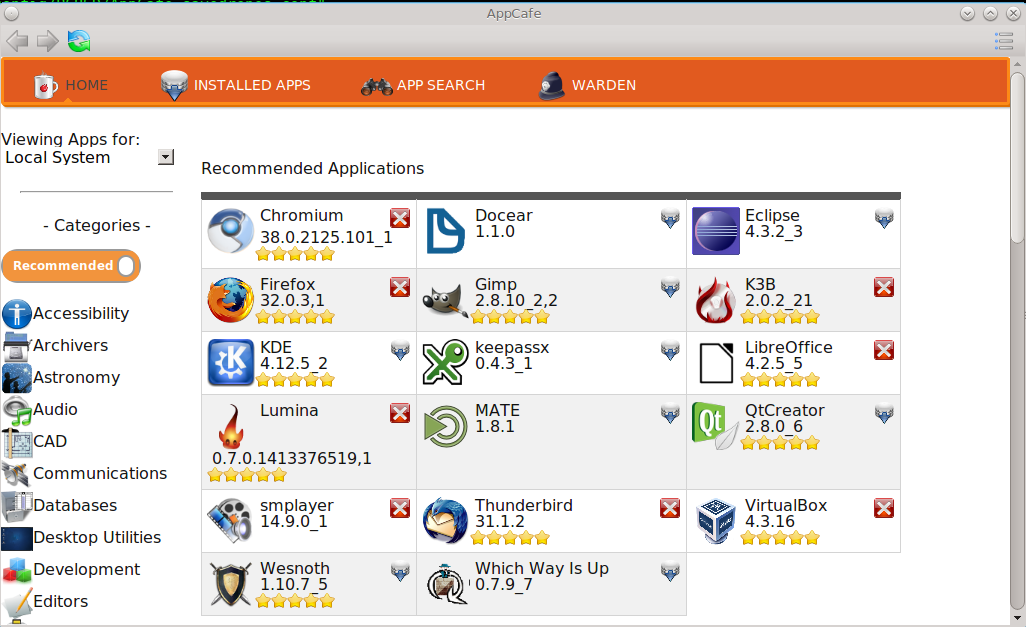
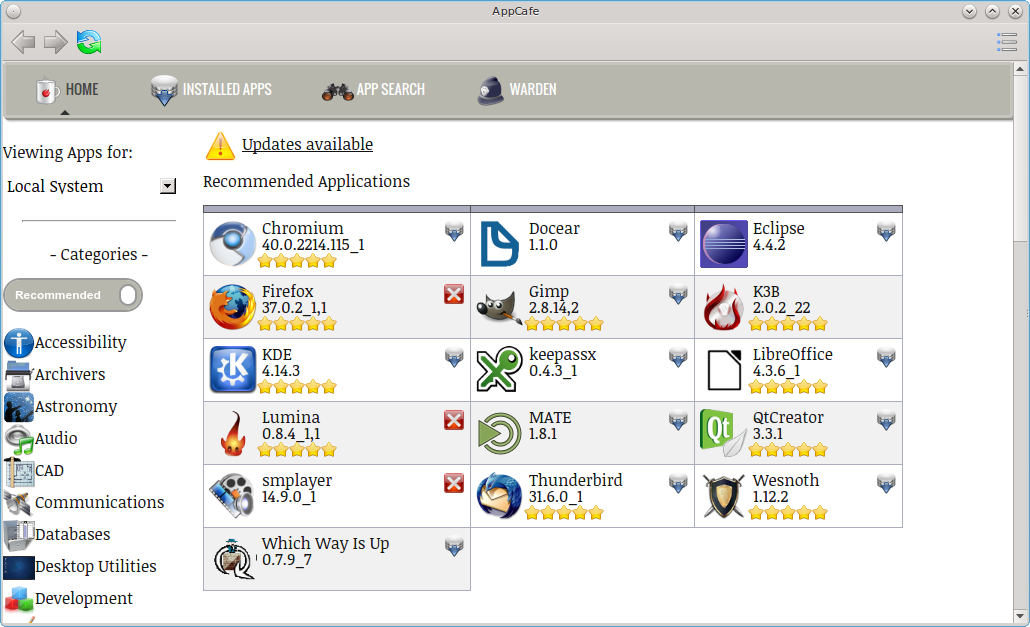
Doc new zimport functionality and start updates to AppCafe chapter.

diff --git a/src-qt5/docs/update.rst b/src-qt5/docs/update.rst
@@ -39,14 +39,14 @@ AppCafe® includes the ability to remotely manage software and jails from anothe
 of a TrueOS® server, the installer provides the ability to configure the user, password, and port number for accessing AppCafe® from any device with
 a web browser. On a desktop installation, AppCafe® can be run as a local application and optionally configured for remote access. To launch the
 AppCafe® application on a PC-BSD® desktop, double-click its icon on the Desktop, go to :menuselection:`Control Panel --> AppCafe®`, or type 
-:command:`pc-su appcafe` from a command prompt. When prompted, input your password. Figure 7.1a shows the initial AppCafe® screen when it is started from
+:command:`appcafe` from a command prompt. When prompted, input your password. Figure 7.1a shows the initial AppCafe® screen when it is started from
 a desktop.
 
 **Figure 7.1a: Running AppCafe® from a Desktop**
 
 .. image:: images/remote1.png
 
-The top bar contains navigational arrows and a refresh icon. Click the icon at the far right of this bar to either configure or close AppCafe®. Figure
+The top bar contains navigational arrows and a refresh icon. Click the icon at the far right of this bar to configure or close AppCafe® or to search for text. Figure
 7.1b shows the menu that appears if you click "Configure". 
 
 **Figure 7.1b: Configuring the AppCafe® Repository**
@@ -56,8 +56,9 @@ The top bar contains navigational arrows and a refresh icon. Click the icon at t
 The "Repository Configuration" tab is used to determine which package set to use. "Production" is the default and recommended setting for most users. Software
 updates are provided every three months, which gives sufficient time for new software versions to be tested. "Edge" is meant for users who wish to assist with
 software testing or who can tolerate the occasional breakage caused by installing new software versions. Software updates are provided approximately every two
-weeks. "Custom" is for administrators who have ; click the "+" button to browse to the location of the custom :file:`.rpo` file. To allow switching between custom
-repositories, multiple custom repositories can be listed, but only the one marked as active will be used.
+weeks. "Custom" assumes that you have followed the instructions to :ref:`Create Your Own PBI Repository` and are ready to click the "+" button to browse to the
+location of the custom :file:`.rpo` file. To allow switching between custom repositories, multiple custom repositories can be listed, but only the one marked
+as active will be used.
 
 To configure remote access, use the "Remote Access" tab shown in Figure 7.1c. 
 
@@ -75,31 +76,15 @@ the specified port number and from allowed IP address(es).
 AppCafe® uses SSL by default and will automatically create a certificate for this purpose. Once remote access is configured, use :file:`https://` and
 specify the IP address of the system and configured port number in a web browser. You will then be prompted to input the configured username and password. The
 AppCafe® interface will load in the web browser. It will be similar to the one shown in Figure 7.1a, except the top navigational buttons and configure
-button will not be displayed and a "Logout" option will be added to the orange bar. Note that AppCafe® will automatically log you out after 60
+button will not be displayed and a "Logout" option will be added to the dark grey bar. Note that AppCafe® will automatically log you out after 60
 minutes of inactivity.
 
 The :file:`/usr/local/etc/appcafe.conf` file stores the configuration used by AppCafe® and can be edited in a text editor. By default, the "remote",
-"port", and "ssl" options are set, using the information configured either during a server installation or using the "Configure" option within the AppCafe®
-Remote interface. The "mode" option is not set by default, but can be by removing the file:`;` comment symbol from that option and setting its value to either
-"desktop", "server", or "appliance". Here is example of this file that includes descriptions of the available modes::
+"port", and "ssl" options are set using the information you provided either during a server installation or using the screen shown in Figure 7.1c.
+The "mode" option is not set by default, but can be by removing the comment symbol (";") from that option and setting its value to either
+"desktop", "server", or "appliance". Here are the descriptions of the available modes as listed in that file::
 
- more /usr/local/etc/appcafe.conf
- ; Settings for AppCafe Web Interface
- ; Set this to true if you want to enable remote access
- ; AppCafe will run on port 8885 by default
- ; Before enabling, be sure to run appcafe-setpass to create
- ; a username / password combo
- remote = false
-
- ; Default port to serve AppCafe on
- port = 8885
-
- ; Enable SSL for the server?
- ; To enable this, you must create a cert file using a command such as the following
- ; openssl req -x509 -nodes -newkey rsa:2048 -keyout appcafe.key -out appcafe.crt -days 1024
- ; After place appcafe.key and appcafe.crt in /usr/local/etc and then set ssl = true below
- ssl = true
-
+ tail -5 /usr/local/etc/appcafe.conf
  ; Set the mode to run AppCafe in (default will pick between server/desktop if X is installed)
  ; desktop = Full access to local system packages and jails
  ; server = Full access to local system packages and jails, no Xorg packages listed
@@ -107,9 +92,9 @@ Remote interface. The "mode" option is not set by default, but can be by removin
  ; mode = desktop
 
 Since "appliance" mode restricts the application to jails only, the first time AppCafe® is run in appliance mode, it will go straight to a welcome
-page offering to create a jail to get started.
+page offering to create a jail if no jails yet exist on the system.
 
-The rest of this section describes how to use AppCafe®.
+The rest of this section describes how manage software using AppCafe®.
 
 .. index:: AppCafe®
 .. _Using AppCafe®:
@@ -117,23 +102,23 @@ The rest of this section describes how to use AppCafe®.
 Using AppCafe®
 ---------------
 
-The "Home" tab is used to browse for available PBIs. Applications which are already installed, have a red "X". If you click that "X", a pop-up message will
+The "Home" tab, seen in Figure 7.1a, is used to browse for available PBIs. Applications which are already installed have a red "X". If you click that "X", a pop-up message will
 ask if you would like to uninstall that application. Applications which are not installed have a grey download icon. Click the icon to install that
-application.
+application. Applications which are required by other applications will not display an icon. If you click on that application, a yellow "Required" triangle will be
+displayed and a "Related" tab will indicate the name of the application(s) which require it.
 
-The default view displays applications which are recommended by other PC-BSD® users and whether or not an application is installed is from the perspective of
-the local system. If you have created any jails, click the drop-down menu "Viewing Apps for" and change "Local System" to the name of the jail that you would
+The "Recommended Applications" section displays applications which are recommended by other PC-BSD® users. Whether or not an application is installed is from the perspective of
+the value of the "Viewing Apps for:" drop-down menu. If you have created any jails, click the drop-down menu and change "Local System" to the name of the jail that you would
 like to manage.
 
-The left pane contains the available software categories. By default, only the recommended applications for each category are shown. To instead view all of
+The "Categories" pane lists the available software categories. By default, only the recommended applications for each category are shown. To instead view all of
 the PBIs for each category, click the "Recommended" button which will change to a grey "All Apps". Click the name of a category to view the available
 PBIs within that category.
 
-To view all of the applications installed on the system or jail you are "Viewing Apps for", click "Installed Apps" in the top bar. The applications will be
-listed in alphabetical order. Click the name of an application to view more information about the application. Click the application's red "X" to uninstall
-the application.
+To view all of the applications installed on the system or jail you are "Viewing Apps for:", click "Installed Apps" in the top bar. The applications will be
+listed in alphabetical order. Click the name of an application to view more information about the application.
 
-In the example shown in Figure 7.1d, the user has clicked "Brasero" on a system that has Brasero installed.
+In the example shown in Figure 7.1d, the user has clicked "Firefox" on a system that has Firefox installed.
 
 **Figure 7.1d: Viewing the Details of an Installed Application**
 
@@ -141,13 +126,19 @@ In the example shown in Figure 7.1d, the user has clicked "Brasero" on a system 
 
 The information for an application includes the following: 
 
+* An icon indicating whether or not the application is already installed, can be installed, or is required by another application.
+
 * Name, version, and icon of the application.
 
-* A hyperlink to the application's website. In this example, clicking "brasero Team" will open the application's website in the user's default web browser.
+* A hyperlink to the application's website. In this example, clicking "Mozilla" will open the application's website in the user's default web browser.
+
+* A hyperlink to the application's information at `freshports.org <freshports.org>`_. Click the arrow icon next to Mozilla to open that website in the user's default web browser.
 
 * A rating of up to five stars. Click the stars to open the PC-BSD® wiki page for the application. If you login to the wiki and hover the mouse over the
   number of stars to select, it will add your ranking and increment the vote number. If you make a mistake in your vote, refresh the browser, click the
-  "remove" button, and re-select the desired number of stars. This page will also contain any contributed "User Tips". If you login to the wiki, you can add
+  "remove" button, and re-select the desired number of stars. 
+
+* User contributed tips and how-tos for the application. Click the blue circle icon to open this wiki page. If you login to the wiki, you can add
   your own usage tips for the application.
 
 * The download size.
@@ -169,9 +160,9 @@ The following tabs may also be displayed. If a tab is not displayed, it means th
 
 - **Dependencies:** lists the packages that are dependencies of this application.
 
-.. note:: if updates are available for any of the installed applications, an "Updates available" link with a yellow triangle icon will appear just under the
-   orange bar. Clicking this link will display another hyperlink indicating that the local system has updates. Click the link "Update packages for Local
-   System" to update the software.
+.. note:: if updates are available for any of the installed applications, an "Updates available" link with a yellow triangle icon will appear.
+   If you click this link it will provide another link that you can click to get details about the update. Note that :ref:`Update Manager` is used to
+   perform the actual update and that you won't be able to add or delete any software while an update is in progress.
 
 The "App Search" tab is shown in Figure 7.1e. 
 

diff --git a/src-qt5/docs/advanced.rst b/src-qt5/docs/advanced.rst
@@ -245,8 +245,10 @@ This screen provides the following options:
   includes the base FreeBSD utilities. You can use this shell to try to determine what the problem is and, if necessary, to create a backup or copy essential
   files to another system. When you are finished using the shell, type :command:`exit` to return to the screen shown in Figure 5.1n. 
 
-* **zimport** this option will prompt for the name of a ZFS pool and then import and mount it. The pool will be mounted to :file:`/mnt` so you can chroot or
-  manipulate files as needed in order to do some maintenance on the pool.
+* **zimport** this option will display the names of available ZFS pools. Type the name of an available pool and it will import it then display the available boot environments (BEs).
+  Type the name of the desired BE and this option will mount it then offer to open a chroot shell so that you can view its contents and manipulate files as
+  needed in order to perform maintenance on that boot environment. When you are finished, type :command:`exit` to leave the boot environment and return to the screen
+  shown in Figure 5.1n.
 
 * **fixgrub:** this option can be used to restamp the GRUB boot loader should the installed system no longer boot. When this option is selected, it will first
   show the available ZFS pools and prompt you to input the name of the pool to import.

diff --git a/src-qt5/docs/introduction.rst b/src-qt5/docs/introduction.rst
@@ -204,6 +204,8 @@ The following features or enhancements were introduced for PC-BSD® 10.1.2:
 
 * The options in the :ref:`Advanced Mode` screen of the installer have been streamlined.
 
+* The :menuselection:`utility --> zimport` menu of the text installer now lets you mount and access a specified boot environment in order to perform maintenance.
+
 * The ability to create a :ref:`PersonaCrypt` user and to specify a UID has been added to the :ref:`Create a User Screen`.
 
 * The :command:`lumina-xconfig` utility has been added to Lumina for adding, removing, and re-arranging screens in the current X session. This utility can be accessed
